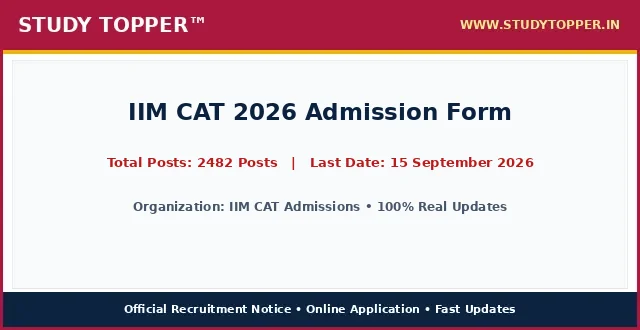
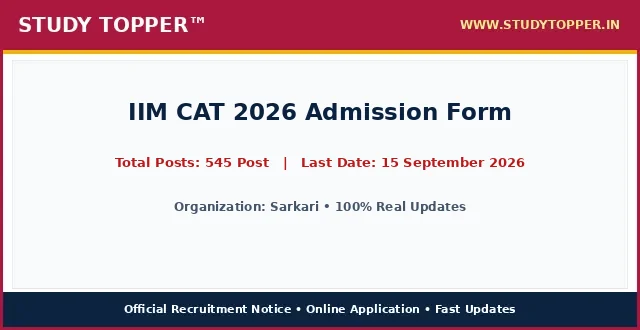
chore(lifecycle): daily auto-sort vacancies and update active dates

Changed region(s): [[0.1562, 0.4545, 0.8438, 0.5152], [0.1875, 0.6061, 0.8125, 0.6667]]

diff --git a/pages/iim-cat-2026.html b/pages/iim-cat-2026.html
@@ -987,12 +987,12 @@ ul.wp-block-latest-posts a:hover {
 <main class="site-main" id="main">
 <div class="gb-container gb-container-b39c368c">
 <h1 class="gb-headline gb-headline-e52a0102 gb-headline-text" style="font-size: 22px; font-weight: 700; color: #0000cd; text-align: left; margin: 8px 0 4px 0; line-height: 1.3; width: 100%; font-family: '-apple-system, BlinkMacSystemFont, 'Segoe UI', Roboto, 'Helvetica Neue', Arial, sans-serif', Times, serif, Hind, sans-serif;">IIM CAT 2026 Admission Form</h1>
-<div class="gb-container gb-container-659bd175"><p style="color: #cd0808; font-weight: 700; font-size: 15px; margin: 2px 0 7px 0; text-align: left; font-family: '-apple-system, BlinkMacSystemFont, 'Segoe UI', Roboto, 'Helvetica Neue', Arial, sans-serif', Times, serif, Hind, sans-serif;">Post Date: August 21, 2026 07:49 PM</p></div>
-<p class="gb-headline gb-headline-550ae316 short_Details gb-headline-text" style="width: 100%; max-width: 100%; font-size: 16.8px; line-height: 1.55; color: #000000; text-align: justify; text-justify: inter-word; margin: 8px 0 14px 0; display: block; font-family: '-apple-system, BlinkMacSystemFont, 'Segoe UI', Roboto, 'Helvetica Neue', Arial, sans-serif', Times, serif, Hind, sans-serif;"><strong style="color: #0000cd;">IIM CAT Admissions</strong> has initiated the centralized online application process for <strong style="color: #cd0808;">IIM CAT 2026 Admission Form</strong> across recognized institutions and university departments. Eligible candidates seeking admission can complete the registration process before the specified deadline of 15 September 2026. The entrance evaluation and counselling allotment evaluate academic merit and entrance examination ranks. Prospective students must review detailed course eligibility, seat quotas, and reservation norms prior to submitting forms.</p>
+<div class="gb-container gb-container-659bd175"><p style="color: #cd0808; font-weight: 700; font-size: 15px; margin: 2px 0 7px 0; text-align: left; font-family: '-apple-system, BlinkMacSystemFont, 'Segoe UI', Roboto, 'Helvetica Neue', Arial, sans-serif', Times, serif, Hind, sans-serif;">Post Date: August 22, 2026 11:52 AM</p></div>
+<p class="gb-headline gb-headline-550ae316 short_Details gb-headline-text" style="width: 100%; max-width: 100%; font-size: 16.8px; line-height: 1.55; color: #000000; text-align: justify; text-justify: inter-word; margin: 8px 0 14px 0; display: block; font-family: '-apple-system, BlinkMacSystemFont, 'Segoe UI', Roboto, 'Helvetica Neue', Arial, sans-serif', Times, serif, Hind, sans-serif;"><strong style="color: #0000cd;">Sarkari</strong> has initiated the centralized online application process for <strong style="color: #cd0808;">IIM CAT 2026 Admission Form</strong> across recognized institutions and university departments. Eligible candidates seeking admission can complete the registration process before the specified deadline of 15 September 2026. The entrance evaluation and counselling allotment evaluate academic merit and entrance examination ranks. Prospective students must review detailed course eligibility, seat quotas, and reservation norms prior to submitting forms.</p>
 <div class="gb-container gb-container-9849916c"><div class="social-buttons-compact" style="display: flex; justify-content: flex-start; align-items: center; gap: 10px; margin: 10px 0 16px 0; width: 100%;"><a class="social-btn-compact wa" href="https://whatsapp.com/channel/0029Va9xyz" rel="noopener" style="background-color: #00d084; color: #ffffff; padding: 10px 18px; border-radius: 4px; text-decoration: none; font-weight: bold; font-size: 15.5px; display: inline-flex; align-items: center; justify-content: center; height: auto;" target="_blank">WhatsApp</a><a class="social-btn-compact tg" href="https://t.me/studytopperofficial" rel="noopener" style="background-color: #0088cc; color: #ffffff; padding: 10px 18px; border-radius: 4px; text-decoration: none; font-weight: bold; font-size: 15.5px; display: inline-flex; align-items: center; justify-content: center; height: auto;" target="_blank">Telegram</a></div></div>
 <div class="gb-container gb-container-f58e6ca1" style="border: 2px solid #5b032f; border-radius: 4px; overflow: hidden; margin: 15px 0 20px 0; background-color: #ffffff; width: 100%; box-sizing: border-box;">
 <h2 class="gb-headline gb-headline-2ca5a791 gb-headline-text" style="font-size: 16px; font-weight: 700; text-align: center; color: #ef0303; line-height: 1.3; padding: 6px 4px; margin: 0; background: #ffffff; font-family: '-apple-system, BlinkMacSystemFont, 'Segoe UI', Roboto, 'Helvetica Neue', Arial, sans-serif', Times, serif, Hind, sans-serif;">IIM CAT 2026 Admission Form &ndash; Latest Details &amp; Updates</h2>
-<h3 class="gb-headline gb-headline-7d5f86e8 gb-headline-text" style="font-size: 16px; font-weight: 600; text-align: center; color: #009703; line-height: 1.25; margin: 0; padding: 2px 4px 6px 4px; background: #ffffff; font-family: '-apple-system, BlinkMacSystemFont, 'Segoe UI', Roboto, 'Helvetica Neue', Arial, sans-serif', Times, serif, Hind, sans-serif;">IIM CAT Admissions : Details &amp; Summary</h3>
+<h3 class="gb-headline gb-headline-7d5f86e8 gb-headline-text" style="font-size: 16px; font-weight: 600; text-align: center; color: #009703; line-height: 1.25; margin: 0; padding: 2px 4px 6px 4px; background: #ffffff; font-family: '-apple-system, BlinkMacSystemFont, 'Segoe UI', Roboto, 'Helvetica Neue', Arial, sans-serif', Times, serif, Hind, sans-serif;">Sarkari : Details &amp; Summary</h3>
 <p class="gb-headline gb-headline-79adf169 gb-headline-text" style="margin: 0 0 6px 0; font-family: '-apple-system, BlinkMacSystemFont, 'Segoe UI', Roboto, 'Helvetica Neue', Arial, sans-serif', Times, serif, Hind, sans-serif; text-align: center; font-size: 18px; font-weight: 700;"><a href="/" style="color: #0000ff; text-decoration: underline;">StudyTopper.in</a></p>
 
 <style id="st-post-boxes-responsive-css">
@@ -1025,7 +1025,7 @@ ul.wp-block-latest-posts a:hover {
     <div style="background-color: #5b032f; color: #ffffff; padding: 8px 10px; font-size: 20px; font-weight: 700; text-align: center; font-family: '-apple-system, BlinkMacSystemFont, 'Segoe UI', Roboto, 'Helvetica Neue', Arial, sans-serif', Times, serif, Hind, sans-serif;">Admission Schedule Dates</div>
     <div style="padding: 12px 14px; background-color: #ffffff;">
       <ul style="padding-left: 20px; margin: 0; list-style-type: disc; text-align: left; font-size: 14pt; line-height: 1.6; font-family: '-apple-system, BlinkMacSystemFont, 'Segoe UI', Roboto, 'Helvetica Neue', Arial, sans-serif', Times, serif, Hind, sans-serif;">
-        <li><span style="font-size: 14pt;">Online Apply Start Date : <strong>03 August 2026</strong></span></li><li><span style="font-size: 14pt;">Last Date for Apply Online : <span style="color: #ff0000;"><strong>15 September 2026</strong></span></span></li><li><span style="font-size: 14pt;">Last Date Online Payment : <span style="color: #ff0000;"><strong>15 September 2026</strong></span></span></li><li><span style="font-size: 14pt;">Exam Date : <strong>29 November 2026</strong></span></li><li><span style="font-size: 14pt;">Admit Card Available : <strong>04 November 2026</strong></span></li>
+        
       </ul>
     </div>
   </div>
@@ -1034,7 +1034,7 @@ ul.wp-block-latest-posts a:hover {
     <div style="background-color: #5b032f; color: #ffffff; padding: 8px 10px; font-size: 20px; font-weight: 700; text-align: center; font-family: '-apple-system, BlinkMacSystemFont, 'Segoe UI', Roboto, 'Helvetica Neue', Arial, sans-serif', Times, serif, Hind, sans-serif;">Application &amp; Counselling Fee</div>
     <div style="padding: 12px 14px; background-color: #ffffff;">
       <ul style="padding-left: 20px; margin: 0; list-style-type: disc; text-align: left; font-size: 14pt; line-height: 1.6; font-family: '-apple-system, BlinkMacSystemFont, 'Segoe UI', Roboto, 'Helvetica Neue', Arial, sans-serif', Times, serif, Hind, sans-serif;">
-        <li><span style="font-size: 14pt;">General, OBC, : <strong>₹ 2700/-</strong></span></li><li><span style="font-size: 14pt;">SC, ST, PWD : <strong>₹ 1350/-</strong></span></li><li><span style="font-size: 14pt;">Payment Mode (Online) : <strong>You can make the payment using the following methods: Debit Card Credit Card Internet Banking IMPS Cash Card / Mobile Wallet</strong></span></li>
+        <li><span style="font-size: 14pt;">Bihar Police BPSSC Sub Inspector SI Prohibition Result 2026 Advt. No. : <strong>03/2026</strong></span></li><li><span style="font-size: 14pt;">UP Scholarship Online Form 2026 : <strong>2027</strong></span></li>
       </ul>
       <div style="margin-top: 10px; font-size: 14pt; line-height: 1.5; color: #000000; border-top: 1px dashed #ccc; padding-top: 8px; font-family: '-apple-system, BlinkMacSystemFont, 'Segoe UI', Roboto, 'Helvetica Neue', Arial, sans-serif', Times, serif, Hind, sans-serif;">
         <strong>Mode of Payment / Access:</strong> Online via Net Banking, Debit Card, Credit Card, UPI or Free Candidate Portal.
@@ -1047,10 +1047,10 @@ ul.wp-block-latest-posts a:hover {
 <div class="st-grid-row" style="display: flex; flex-wrap: wrap; width: 100%; border-top: 2px solid #5b032f; margin: 0; padding: 0; box-sizing: border-box;">
   <!-- Left Col: Age Limits -->
   <div class="st-col-half st-col-border-right" style="box-sizing: border-box; vertical-align: top;">
-    <div style="background-color: #046132; color: #ffffff; padding: 8px 10px; font-size: 17px; font-weight: 700; text-align: center; font-family: '-apple-system, BlinkMacSystemFont, 'Segoe UI', Roboto, 'Helvetica Neue', Arial, sans-serif', Times, serif, Hind, sans-serif;">IIM CAT Admissions : Age Criteria As On 01 August 2026</div>
+    <div style="background-color: #046132; color: #ffffff; padding: 8px 10px; font-size: 17px; font-weight: 700; text-align: center; font-family: '-apple-system, BlinkMacSystemFont, 'Segoe UI', Roboto, 'Helvetica Neue', Arial, sans-serif', Times, serif, Hind, sans-serif;">Sarkari : Age Criteria As On 01 August 2026</div>
     <div style="padding: 12px 14px; background-color: #ffffff;">
       <ul style="padding-left: 20px; margin: 0; list-style-type: disc; text-align: left; font-size: 14pt; line-height: 1.6; font-family: '-apple-system, BlinkMacSystemFont, 'Segoe UI', Roboto, 'Helvetica Neue', Arial, sans-serif', Times, serif, Hind, sans-serif;">
-        <li><span style="font-size: 14pt;">Maximum Age : <strong>N/A</strong></span></li>
+        
       </ul>
     </div>
   </div>
@@ -1058,7 +1058,7 @@ ul.wp-block-latest-posts a:hover {
   <div class="st-col-half" style="box-sizing: border-box; vertical-align: top;">
     <div style="background-color: #f53c00; color: #ffffff; padding: 8px 10px; font-size: 20px; font-weight: 700; text-align: center; font-family: '-apple-system, BlinkMacSystemFont, 'Segoe UI', Roboto, 'Helvetica Neue', Arial, sans-serif', Times, serif, Hind, sans-serif;">Total Seats / Quota</div>
     <div style="padding: 24px 10px; background-color: #ffffff; text-align: center;">
-      <span style="font-size: 28px; font-weight: 800; color: #000000; font-family: '-apple-system, BlinkMacSystemFont, 'Segoe UI', Roboto, 'Helvetica Neue', Arial, sans-serif', Times, serif, Hind, sans-serif;">2482 Posts</span>
+      <span style="font-size: 28px; font-weight: 800; color: #000000; font-family: '-apple-system, BlinkMacSystemFont, 'Segoe UI', Roboto, 'Helvetica Neue', Arial, sans-serif', Times, serif, Hind, sans-serif;">545 Post</span>
     </div>
   </div>
 </div>
@@ -1070,19 +1070,7 @@ ul.wp-block-latest-posts a:hover {
 <div class="gb-container gb-container-ec1f6e4c">
 <h2 class="gb-headline gb-headline-c7683bda gb-headline-text" style="font-size: 24px; font-weight: 800; text-align: center; color: #ef0303; line-height: 1.35; margin: 20px 0 12px 0; padding: 6px 4px; font-family: '-apple-system, BlinkMacSystemFont, 'Segoe UI', Roboto, 'Helvetica Neue', Arial, sans-serif', Times, serif, Hind, sans-serif;">IIM CAT 2026 Admission Form : Key Overview &amp; Matrix</h2>
 <div class="gb-headline gb-headline-60ccea19 gb-headline-text">
-<table style="border-collapse: collapse; width: 100%; height: 150px;">
-<tbody>
-<tr style="height: 25px;">
-<td colspan="2" style="width: 50%; text-align: center; height: 25px;"><span style="background-color: #000080; color: #ffffff; font-size: 14pt;"><strong> IIM CAT Admissions : Course Wise Seat Matrix &amp; Eligibility Details </strong></span></td>
-</tr>
-<tr style="height: 25px;">
-<td style="width: 50%; height: 25px; text-align: center;"><span style="font-size: 14pt;"><strong>Category / Particulars</strong></span></td>
-<td style="width: 50%; height: 25px; text-align: center;"><span style="font-size: 14pt;"><strong>Count / Status</strong></span></td>
-</tr>
-<tr><td style="text-align: center;">Admission Session</td><td style="text-align: center; font-weight: normal; color: inherit;">2026-2027</td></tr><tr><td style="text-align: center;">Target Programs</td><td style="text-align: center; font-weight: normal; color: inherit;">Undergraduate / Postgraduate Courses</td></tr><tr><td style="text-align: center;">Total Seats</td><td style="text-align: center; font-weight: bold; color: #ff0000;">2482 Posts</td></tr>
-</tbody>
-</table>
-<p>&nbsp;</p>
+
 <table style="border-collapse: collapse; width: 100%;">
 <tbody>
 <tr>
@@ -1091,16 +1079,13 @@ ul.wp-block-latest-posts a:hover {
 <th style="background-color: #f53c00; color: #ffffff; padding: 6px 10px; text-align: center; border: 1px solid #d35400; font-size: 15px; font-weight: 700; font-family: '-apple-system, BlinkMacSystemFont, 'Segoe UI', Roboto, 'Helvetica Neue', Arial, sans-serif', Times, serif, Hind, sans-serif;">Educational Qualification &amp; Eligibility</th>
 </tr>
 <tr>
-<td style="padding: 8px; border: 1px solid #ddd; font-weight: bold;">Post Graduate Programmes in Management (PGP)</td>
-<td style="padding: 8px; border: 1px solid #ddd; text-align: center; font-weight: bold;">2482 Posts</td>
-<td style="padding: 8px; border: 1px solid #ddd;">Candidate must hold a Bachelor’s Degree, with at least 50% marks or equivalent CGPA [45% in case of the candidates belonging to Scheduled Caste (SC), Scheduled Tribe (ST) and Persons With Disability (PWD) categories], awarded by any University or educational institution as incorporated by an Act of the Parliament or State legislature in India or declared to be deemed as a University under Section 3 of the UGC Act, 1956, or possess an equivalent qualification recognized by the Ministry of HRD, Government of India.</td>
-</tr><tr>
-<td style="padding: 8px; border: 1px solid #ddd; font-weight: bold;">Fellowship Programmes in Management (FPM) / (PHD)</td>
-<td style="padding: 8px; border: 1px solid #ddd; text-align: center; font-weight: bold;">2482 Posts</td>
-<td style="padding: 8px; border: 1px solid #ddd;">Candidates appearing for the final year of Bachelor’s degree/equivalent qualification examination and those who have completed degree requirements and are awaiting results can also apply. However, it may be noted that such candidates, if selected, will be allowed to join the programme provisionally, only if they submit a certificate from the Principal / Registrar of their University/institution (issued on or before the date as stipulated by the respective IIM) stating that they have completed all the requirements for obtaining the Bachelor’s degree/equivalent qualification on the date of the issue of the certificate.</td>
+<td style="padding: 8px; border: 1px solid #ddd; font-weight: bold;">Sarkari Recruitment</td>
+<td style="padding: 8px; border: 1px solid #ddd; text-align: center; font-weight: bold;">545 Post</td>
+<td style="padding: 8px; border: 1px solid #ddd;">Please refer to the official notification linked below for detailed educational qualifications.</td>
 </tr>
 </tbody>
 </table>
+<p>&nbsp;</p>
 <p>&nbsp;</p>
 
 
@@ -1108,10 +1093,10 @@ ul.wp-block-latest-posts a:hover {
 <table style="border-collapse: collapse; width: 100%;">
 <tbody>
 <tr>
-<td style="width: 100%; text-align: center;"><span style="background-color: #000080; color: #ffffff; font-size: 14pt; font-weight: bold; display: block; padding: 6px;"> How to Apply for IIM CAT Admissions Online Admission Form 2026 </span></td>
+<td style="width: 100%; text-align: center;"><span style="background-color: #000080; color: #ffffff; font-size: 14pt; font-weight: bold; display: block; padding: 6px;"> How to Apply for Sarkari Online Admission Form 2026 </span></td>
 </tr>
 <tr>
-<td style="width: 100%;"><ol style="margin:0; padding-left:18px; text-align: left !important; list-style-position: outside !important"><li style="margin-bottom:6px; text-align: left !important;">Visit official portal for IIM CAT 2026 Admission Form via direct application link in important links section below.</li><li style="margin-bottom:6px; text-align: left !important;">Read official recruitment notification carefully to verify category eligibility criteria and age limits.</li><li style="margin-bottom:6px; text-align: left !important;">Complete online candidate registration with valid mobile number and email ID.</li><li style="margin-bottom:6px; text-align: left !important;">Fill educational qualifications, identity details, and permanent address accurately.</li><li style="margin-bottom:6px; text-align: left !important;">Upload scanned photograph and signature in required dimensions.</li><li style="margin-bottom:6px; text-align: left !important;">Resize candidate photograph and signature accurately using StudyTopper Tools resizer at indtool.in.</li><li style="margin-bottom:6px; text-align: left !important;">Pay applicable category application fee online using Debit Card, Credit Card, Net Banking, or UPI.</li><li style="margin-bottom:6px; text-align: left !important;">Review full application form preview thoroughly and submit before 15 September 2026.</li><li style="margin-bottom:6px; text-align: left !important;">Download and print submitted application confirmation page for future reference.</li></ol></td>
+<td style="width: 100%;"><ol style="margin:0; padding-left:18px; text-align: left !important; list-style-position: outside !important"><li style="margin-bottom:6px; text-align: left !important;">Read the official recruitment notification carefully before applying.</li><li style="margin-bottom:6px; text-align: left !important;">Keep all basic documents ready: ID Proof, Address Details, Basic Details.</li><li style="margin-bottom:6px; text-align: left !important;">Ready your scanned documents like Photo, Signature, ID Proof, etc.</li><li style="margin-bottom:6px; text-align: left !important;">Click on the 'Apply Online' link given in the Important Links section below.</li><li style="margin-bottom:6px; text-align: left !important;">Fill out all the columns in the application form accurately.</li><li style="margin-bottom:6px; text-align: left !important;">Pay the required application fee if applicable.</li><li style="margin-bottom:6px; text-align: left !important;">Take a printout of the final submitted application form.</li><li style="margin-bottom:6px; text-align: left !important;">Resize candidate photograph and signature accurately using the <a href="https://indtool.in" rel="noopener" target="_blank"><strong>StudyTopper Tools</strong></a> image resizer at indtool.in.</li></ol></td>
 </tr>
 </tbody>
 </table>
@@ -1119,12 +1104,12 @@ ul.wp-block-latest-posts a:hover {
 <table style="border-collapse: collapse; width: 100%;">
 <tbody>
 <tr>
-<td style="width: 100%; text-align: center;"><span style="background-color: #000080; color: #ffffff; font-size: 14pt;"><strong><span style="color: #ffffff;"> IIM CAT Admissions Admission 2026 : Mode of Selection &amp; Counselling </span></strong></span></td>
+<td style="width: 100%; text-align: center;"><span style="background-color: #000080; color: #ffffff; font-size: 14pt;"><strong><span style="color: #ffffff;"> Sarkari Admission 2026 : Mode of Selection &amp; Counselling </span></strong></span></td>
 </tr>
 <tr>
 <td style="width: 100%;">
 <ul class="wp-block-list" style="text-align: left !important; list-style-position: outside !important">
-<li style="text-align: left !important;"><span style="font-size: 14pt;"><strong>Computer Based Examination (CBE) / Evaluation</strong></span></li><li style="text-align: left !important;"><span style="font-size: 14pt;"><strong>Document Verification</strong></span></li><li style="text-align: left !important;"><span style="font-size: 14pt;"><strong>Final Merit Allotment</strong></span></li>
+<li style="text-align: left !important;"><span style="font-size: 14pt;"><strong>Computer Based Examination (CBE) / Written Exam</strong></span></li><li style="text-align: left !important;"><span style="font-size: 14pt;"><strong>Document Verification</strong></span></li><li style="text-align: left !important;"><span style="font-size: 14pt;"><strong>Medical Examination</strong></span></li>
 </ul>
 </td>
 </tr>
@@ -1159,42 +1144,42 @@ ul.wp-block-latest-posts a:hover {
 
 <tr style="border-bottom: 1px solid #000000; background-color: #fff37a;">
 <td style="width: 50%; padding: 14px 16px; border-right: 1px solid #000000; text-align: center;">
-<span style="font-size: 19px; font-weight: 800; color: #000000; font-family: '-apple-system, BlinkMacSystemFont, 'Segoe UI', Roboto, 'Helvetica Neue', Arial, sans-serif', Times, serif, Hind, sans-serif;">Apply Online</span>
+<span style="font-size: 19px; font-weight: 800; color: #000000; font-family: '-apple-system, BlinkMacSystemFont, 'Segoe UI', Roboto, 'Helvetica Neue', Arial, sans-serif', Times, serif, Hind, sans-serif;">Apply Online (Registration / Login)</span>
 </td>
 <td style="width: 50%; padding: 14px 16px; text-align: center;">
-<span style="font-size: 20px; font-weight: 800; font-family: '-apple-system, BlinkMacSystemFont, 'Segoe UI', Roboto, 'Helvetica Neue', Arial, sans-serif', Times, serif, Hind, sans-serif;"><a href="https://iimcat.ac.in/per/g06/pub/32842/ASM/WebPortal/1/index.html?32842@@1@@1" aria-label="Click Here for Apply Online - IIM CAT 2026 Admission Form" rel="noopener noreferrer" style="color: #0000ef; font-weight: 800; text-decoration: none;" target="_blank">Click Here</a></span>
+<span style="font-size: 20px; font-weight: 800; font-family: '-apple-system, BlinkMacSystemFont, 'Segoe UI', Roboto, 'Helvetica Neue', Arial, sans-serif', Times, serif, Hind, sans-serif;"><a href="https://www.sarkariresult.com/2026/mpesb-group2-subgroup-4-aug26/" aria-label="Click Here for Apply Online (Registration / Login) - IIM CAT 2026 Admission Form" rel="noopener noreferrer" style="color: #0000ef; font-weight: 800; text-decoration: none;" target="_blank">Click Here</a></span>
 </td>
 </tr>
 <tr style="border-bottom: 1px solid #000000; background-color: #fff37a;">
 <td style="width: 50%; padding: 14px 16px; border-right: 1px solid #000000; text-align: center;">
-<span style="font-size: 19px; font-weight: 800; color: #000000; font-family: '-apple-system, BlinkMacSystemFont, 'Segoe UI', Roboto, 'Helvetica Neue', Arial, sans-serif', Times, serif, Hind, sans-serif;">Download Information Bulletin</span>
+<span style="font-size: 19px; font-weight: 800; color: #000000; font-family: '-apple-system, BlinkMacSystemFont, 'Segoe UI', Roboto, 'Helvetica Neue', Arial, sans-serif', Times, serif, Hind, sans-serif;">Download Information Brochure PDF</span>
 </td>
 <td style="width: 50%; padding: 14px 16px; text-align: center;">
-<span style="font-size: 20px; font-weight: 800; font-family: '-apple-system, BlinkMacSystemFont, 'Segoe UI', Roboto, 'Helvetica Neue', Arial, sans-serif', Times, serif, Hind, sans-serif;"><a href="https://cdn.digialm.com/per/g06/pub/32842/EForms/image/CAT2026/CAT_2026_Information_Bulletin_26-07-26.pdf" aria-label="Click Here for Download Information Bulletin - IIM CAT 2026 Admission Form" rel="noopener noreferrer" style="color: #0000ef; font-weight: 800; text-decoration: none;" target="_blank">Click Here</a></span>
+<span style="font-size: 20px; font-weight: 800; font-family: '-apple-system, BlinkMacSystemFont, 'Segoe UI', Roboto, 'Helvetica Neue', Arial, sans-serif', Times, serif, Hind, sans-serif;"><a href="" aria-label="Click Here for Download Information Brochure PDF - IIM CAT 2026 Admission Form" rel="noopener noreferrer" style="color: #0000ef; font-weight: 800; text-decoration: none;" target="_blank">Click Here</a></span>
 </td>
 </tr>
 <tr style="border-bottom: 1px solid #000000; background-color: #fff37a;">
 <td style="width: 50%; padding: 14px 16px; border-right: 1px solid #000000; text-align: center;">
-<span style="font-size: 19px; font-weight: 800; color: #000000; font-family: '-apple-system, BlinkMacSystemFont, 'Segoe UI', Roboto, 'Helvetica Neue', Arial, sans-serif', Times, serif, Hind, sans-serif;">Check Notification</span>
+<span style="font-size: 19px; font-weight: 800; color: #000000; font-family: '-apple-system, BlinkMacSystemFont, 'Segoe UI', Roboto, 'Helvetica Neue', Arial, sans-serif', Times, serif, Hind, sans-serif;">Photo / Sign Resizer Tool</span>
 </td>
 <td style="width: 50%; padding: 14px 16px; text-align: center;">
-<span style="font-size: 20px; font-weight: 800; font-family: '-apple-system, BlinkMacSystemFont, 'Segoe UI', Roboto, 'Helvetica Neue', Arial, sans-serif', Times, serif, Hind, sans-serif;"><a href="https://cdn.digialm.com/per/g06/pub/32842/EForms/image/CAT2026/CAT_2026_Eligibility_26-07-26.pdf" aria-label="Click Here for Check Notification - IIM CAT 2026 Admission Form" rel="noopener noreferrer" style="color: #0000ef; font-weight: 800; text-decoration: none;" target="_blank">Click Here</a></span>
+<span style="font-size: 20px; font-weight: 800; font-family: '-apple-system, BlinkMacSystemFont, 'Segoe UI', Roboto, 'Helvetica Neue', Arial, sans-serif', Times, serif, Hind, sans-serif;"><a href="https://indtool.in" aria-label="Click Here for Photo / Sign Resizer Tool - IIM CAT 2026 Admission Form" rel="noopener noreferrer" style="color: #0000ef; font-weight: 800; text-decoration: none;" target="_blank">Click Here</a></span>
 </td>
 </tr>
 <tr style="border-bottom: 1px solid #000000; background-color: #fff37a;">
-<td style="width: 50%; padding: 14px 16px; border-right: 1px solid #000000; text-align: center;">
-<span style="font-size: 19px; font-weight: 800; color: #000000; font-family: '-apple-system, BlinkMacSystemFont, 'Segoe UI', Roboto, 'Helvetica Neue', Arial, sans-serif', Times, serif, Hind, sans-serif;">IIM CAT Official Website</span>
-</td>
-<td style="width: 50%; padding: 14px 16px; text-align: center;">
-<span style="font-size: 20px; font-weight: 800; font-family: '-apple-system, BlinkMacSystemFont, 'Segoe UI', Roboto, 'Helvetica Neue', Arial, sans-serif', Times, serif, Hind, sans-serif;"><a href="https://iimcat.ac.in/" aria-label="Click Here for IIM CAT Official Website - IIM CAT 2026 Admission Form" rel="noopener noreferrer" style="color: #0000ef; font-weight: 800; text-decoration: none;" target="_blank">Click Here</a></span>
-</td>
-</tr>
-<tr style=" background-color: #fff37a;">
 <td style="width: 50%; padding: 14px 16px; border-right: 1px solid #000000; text-align: center;">
 <span style="font-size: 19px; font-weight: 800; color: #000000; font-family: '-apple-system, BlinkMacSystemFont, 'Segoe UI', Roboto, 'Helvetica Neue', Arial, sans-serif', Times, serif, Hind, sans-serif;">Check Sarkari Result</span>
 </td>
 <td style="width: 50%; padding: 14px 16px; text-align: center;">
 <span style="font-size: 20px; font-weight: 800; font-family: '-apple-system, BlinkMacSystemFont, 'Segoe UI', Roboto, 'Helvetica Neue', Arial, sans-serif', Times, serif, Hind, sans-serif;"><a href="/" aria-label="Click Here for Check Sarkari Result - IIM CAT 2026 Admission Form" rel="noopener noreferrer" style="color: #0000ef; font-weight: 800; text-decoration: none;" >Click Here</a></span>
+</td>
+</tr>
+<tr style=" background-color: #fff37a;">
+<td style="width: 50%; padding: 14px 16px; border-right: 1px solid #000000; text-align: center;">
+<span style="font-size: 19px; font-weight: 800; color: #000000; font-family: '-apple-system, BlinkMacSystemFont, 'Segoe UI', Roboto, 'Helvetica Neue', Arial, sans-serif', Times, serif, Hind, sans-serif;">Sarkari Website</span>
+</td>
+<td style="width: 50%; padding: 14px 16px; text-align: center;">
+<span style="font-size: 20px; font-weight: 800; font-family: '-apple-system, BlinkMacSystemFont, 'Segoe UI', Roboto, 'Helvetica Neue', Arial, sans-serif', Times, serif, Hind, sans-serif;"><a href="" aria-label="Click Here for Sarkari Website - IIM CAT 2026 Admission Form" rel="noopener noreferrer" style="color: #0000ef; font-weight: 800; text-decoration: none;" target="_blank">Click Here</a></span>
 </td>
 </tr>
 </tbody>

diff --git a/index.html b/index.html
@@ -1636,7 +1636,7 @@ ul.wp-block-latest-posts a:hover {
 </div></div></div>
 <div class="gb-grid-column gb-grid-column-51daea0e"><div class="gb-container gb-container-51daea0e"><div class="gb-inside-container">
 <p class="gb-headline gb-headline-4a4924a5 gb-headline-text" style="background-color:#ab183d !important; color:#ffffff !important; text-align:center; font-weight:700; padding:6px 0;">Admission</p>
-<ul class="wp-block-latest-posts__list 6colm_box wp-block-latest-posts"><li><a class="wp-block-latest-posts__post-title" href="/bihar-stet-2026/">Bihar STET Online Form 2026</a></li><li><a class="wp-block-latest-posts__post-title" href="/iit-gate-2027/">IIT GATE 2027 Admission Form</a></li><li><a class="wp-block-latest-posts__post-title" href="/iim-cat-2026/">IIM CAT 2026 Admission Form</a></li><li><a class="wp-block-latest-posts__post-title" href="/up-scholarship-2026/">UP Scholarship Online Form 2026-27</a></li><li><a class="wp-block-latest-posts__post-title" href="/iit-jam-2027/">IIT JAM Admission Form 2026</a></li><li><a class="wp-block-latest-posts__post-title" href="/2026-aibe-22th-aug26/">AIBE 22th Online Form 2026</a></li><li><a class="wp-block-latest-posts__post-title" href="/clat-2026/">CLAT Admission Form 2026</a></li><li><a class="wp-block-latest-posts__post-title" href="/bihar-bseb-deled-2026/">Bihar BSEB DElEd Common Application Form 2026</a></li></ul>
+<ul class="wp-block-latest-posts__list 6colm_box wp-block-latest-posts"><li><a class="wp-block-latest-posts__post-title" href="/bihar-stet-2026/">Bihar STET Online Form 2026</a></li><li><a class="wp-block-latest-posts__post-title" href="/iim-cat-2026/">IIM CAT 2026 Admission Form</a></li><li><a class="wp-block-latest-posts__post-title" href="/iit-gate-2027/">IIT GATE 2027 Admission Form</a></li><li><a class="wp-block-latest-posts__post-title" href="/up-scholarship-2026/">UP Scholarship Online Form 2026-27</a></li><li><a class="wp-block-latest-posts__post-title" href="/iit-jam-2027/">IIT JAM Admission Form 2026</a></li><li><a class="wp-block-latest-posts__post-title" href="/2026-aibe-22th-aug26/">AIBE 22th Online Form 2026</a></li><li><a class="wp-block-latest-posts__post-title" href="/clat-2026/">CLAT Admission Form 2026</a></li><li><a class="wp-block-latest-posts__post-title" href="/bihar-bseb-deled-2026/">Bihar BSEB DElEd Common Application Form 2026</a></li></ul>
 <div class="wp-block-buttons is-content-justification-right is-layout-flex wp-container-core-buttons-is-layout-89b4c9e9 wp-block-buttons-is-layout-flex">
 <div class="wp-block-button"><a class="wp-block-button__link has-base-2-color has-accent-2-background-color has-text-color has-background has-link-color wp-element-button" href="/admission/" rel="noreferrer noopener" target="_blank"><strong>View More</strong></a></div>
 </div>

diff --git a/pages/index.html b/pages/index.html
@@ -1636,7 +1636,7 @@ ul.wp-block-latest-posts a:hover {
 </div></div></div>
 <div class="gb-grid-column gb-grid-column-51daea0e"><div class="gb-container gb-container-51daea0e"><div class="gb-inside-container">
 <p class="gb-headline gb-headline-4a4924a5 gb-headline-text" style="background-color:#ab183d !important; color:#ffffff !important; text-align:center; font-weight:700; padding:6px 0;">Admission</p>
-<ul class="wp-block-latest-posts__list 6colm_box wp-block-latest-posts"><li><a class="wp-block-latest-posts__post-title" href="/bihar-stet-2026/">Bihar STET Online Form 2026</a></li><li><a class="wp-block-latest-posts__post-title" href="/iit-gate-2027/">IIT GATE 2027 Admission Form</a></li><li><a class="wp-block-latest-posts__post-title" href="/iim-cat-2026/">IIM CAT 2026 Admission Form</a></li><li><a class="wp-block-latest-posts__post-title" href="/up-scholarship-2026/">UP Scholarship Online Form 2026-27</a></li><li><a class="wp-block-latest-posts__post-title" href="/iit-jam-2027/">IIT JAM Admission Form 2026</a></li><li><a class="wp-block-latest-posts__post-title" href="/2026-aibe-22th-aug26/">AIBE 22th Online Form 2026</a></li><li><a class="wp-block-latest-posts__post-title" href="/clat-2026/">CLAT Admission Form 2026</a></li><li><a class="wp-block-latest-posts__post-title" href="/bihar-bseb-deled-2026/">Bihar BSEB DElEd Common Application Form 2026</a></li></ul>
+<ul class="wp-block-latest-posts__list 6colm_box wp-block-latest-posts"><li><a class="wp-block-latest-posts__post-title" href="/bihar-stet-2026/">Bihar STET Online Form 2026</a></li><li><a class="wp-block-latest-posts__post-title" href="/iim-cat-2026/">IIM CAT 2026 Admission Form</a></li><li><a class="wp-block-latest-posts__post-title" href="/iit-gate-2027/">IIT GATE 2027 Admission Form</a></li><li><a class="wp-block-latest-posts__post-title" href="/up-scholarship-2026/">UP Scholarship Online Form 2026-27</a></li><li><a class="wp-block-latest-posts__post-title" href="/iit-jam-2027/">IIT JAM Admission Form 2026</a></li><li><a class="wp-block-latest-posts__post-title" href="/2026-aibe-22th-aug26/">AIBE 22th Online Form 2026</a></li><li><a class="wp-block-latest-posts__post-title" href="/clat-2026/">CLAT Admission Form 2026</a></li><li><a class="wp-block-latest-posts__post-title" href="/bihar-bseb-deled-2026/">Bihar BSEB DElEd Common Application Form 2026</a></li></ul>
 <div class="wp-block-buttons is-content-justification-right is-layout-flex wp-container-core-buttons-is-layout-89b4c9e9 wp-block-buttons-is-layout-flex">
 <div class="wp-block-button"><a class="wp-block-button__link has-base-2-color has-accent-2-background-color has-text-color has-background has-link-color wp-element-button" href="/admission/" rel="noreferrer noopener" target="_blank"><strong>View More</strong></a></div>
 </div>

diff --git a/original_index.html b/original_index.html
@@ -1099,7 +1099,7 @@ ul.wp-block-latest-posts a:hover {
 </div></div></div>
 <div class="gb-grid-column gb-grid-column-51daea0e"><div class="gb-container gb-container-51daea0e"><div class="gb-inside-container">
 <p class="gb-headline gb-headline-4a4924a5 gb-headline-text"><strong>Admission</strong></p>
-<ul class="wp-block-latest-posts__list 6colm_box wp-block-latest-posts"><li><a class="wp-block-latest-posts__post-title" href="/bihar-stet-2026/">Bihar STET Online Form 2026</a></li><li><a class="wp-block-latest-posts__post-title" href="/iit-gate-2027/">IIT GATE 2027 Admission Form</a></li><li><a class="wp-block-latest-posts__post-title" href="/iim-cat-2026/">IIM CAT 2026 Admission Form</a></li><li><a class="wp-block-latest-posts__post-title" href="/up-scholarship-2026/">UP Scholarship Online Form 2026-27</a></li><li><a class="wp-block-latest-posts__post-title" href="/iit-jam-2027/">IIT JAM Admission Form 2026</a></li><li><a class="wp-block-latest-posts__post-title" href="/2026-aibe-22th-aug26/">AIBE 22th Online Form 2026</a></li><li><a class="wp-block-latest-posts__post-title" href="/clat-2026/">CLAT Admission Form 2026</a></li><li><a class="wp-block-latest-posts__post-title" href="/bihar-bseb-deled-2026/">Bihar BSEB DElEd Common Application Form 2026</a></li></ul>
+<ul class="wp-block-latest-posts__list 6colm_box wp-block-latest-posts"><li><a class="wp-block-latest-posts__post-title" href="/bihar-stet-2026/">Bihar STET Online Form 2026</a></li><li><a class="wp-block-latest-posts__post-title" href="/iim-cat-2026/">IIM CAT 2026 Admission Form</a></li><li><a class="wp-block-latest-posts__post-title" href="/iit-gate-2027/">IIT GATE 2027 Admission Form</a></li><li><a class="wp-block-latest-posts__post-title" href="/up-scholarship-2026/">UP Scholarship Online Form 2026-27</a></li><li><a class="wp-block-latest-posts__post-title" href="/iit-jam-2027/">IIT JAM Admission Form 2026</a></li><li><a class="wp-block-latest-posts__post-title" href="/2026-aibe-22th-aug26/">AIBE 22th Online Form 2026</a></li><li><a class="wp-block-latest-posts__post-title" href="/clat-2026/">CLAT Admission Form 2026</a></li><li><a class="wp-block-latest-posts__post-title" href="/bihar-bseb-deled-2026/">Bihar BSEB DElEd Common Application Form 2026</a></li></ul>
 <div class="wp-block-buttons is-content-justification-right is-layout-flex wp-container-core-buttons-is-layout-89b4c9e9 wp-block-buttons-is-layout-flex">
 <div class="wp-block-button"><a class="wp-block-button__link has-base-2-color has-accent-2-background-color has-text-color has-background has-link-color wp-element-button" href="/admission/" rel="noreferrer noopener" target="_blank"><strong>View More</strong></a></div>
 </div>
